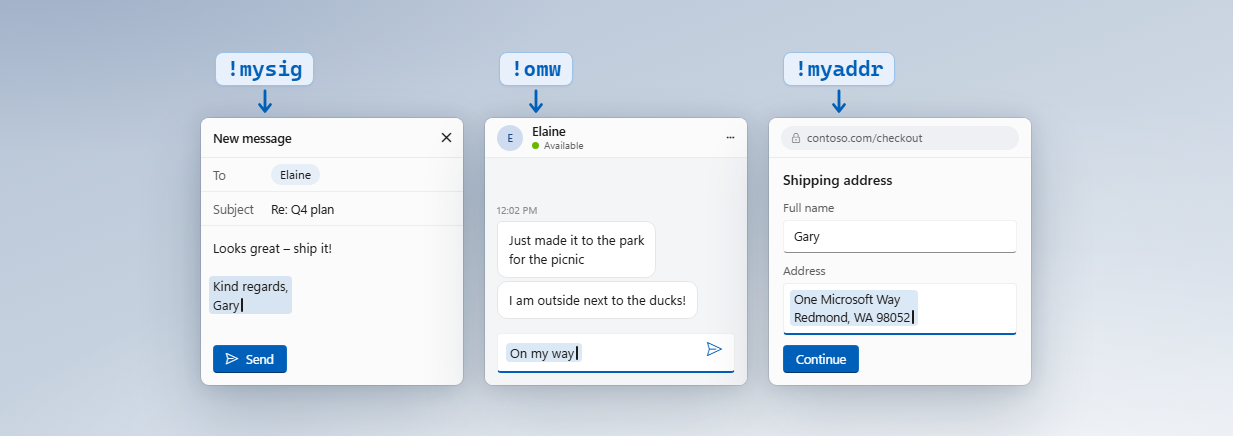
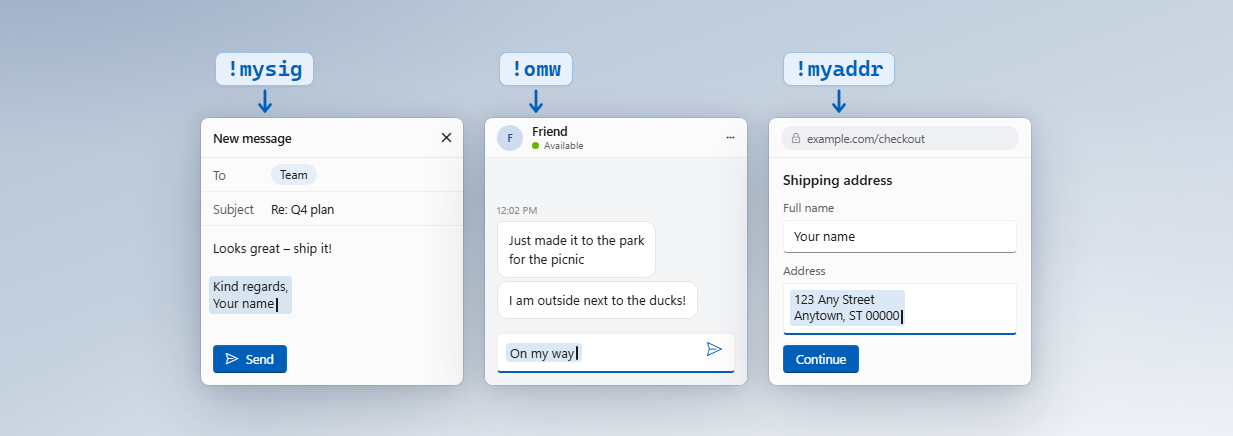
chore(textexpander): use generic sample data in the welcome and Settings images
The welcome image and the Settings page card showed real-sounding names, a Contoso address bar and Microsoft's
street address. They now show "Team", "Friend", "Your name", example.com and 123 Any Street, Anytown, ST 00000,
in the same size and style; only that text changed. The UI tests' sample address, which their screenshots show,
is the same fictional one.

diff --git a/src/modules/textexpander/TextExpander.UITests/TextExpanderTestBase.cs b/src/modules/textexpander/TextExpander.UITests/TextExpanderTestBase.cs
@@ -21,7 +21,7 @@ public abstract class TextExpanderTestBase : UITestBase
     internal const string EngineMessageWindowClass = "PowerToys.TextExpander.MessageWindow.powertoys";
 
     internal static readonly Snippet Greeting = new(";tehi", "Hello from the Text Expander UI test");
-    internal static readonly Snippet Address = new(";teaddr", "One Microsoft Way\nRedmond, WA 98052");
+    internal static readonly Snippet Address = new(";teaddr", "123 Any Street\nAnytown, ST 00000");
     internal static readonly Snippet Letter = new(";tecur", "Dear $|$,\nSent {{isodate}}");
     internal static readonly Snippet Ticket = new(";teask", "Ticket {{prompt:Ticket number}} is resolved.");
     internal static readonly Snippet Note = new(";tenote", "Note: {{prompt:Your note}}.");

diff --git a/src/modules/textexpander/TextExpander.UITests/TextExpanderEditorTests.cs b/src/modules/textexpander/TextExpander.UITests/TextExpanderEditorTests.cs
@@ -418,7 +418,7 @@ public sealed class TextExpanderEditorTests : TextExpanderTestBase
         Assert.IsTrue(editor.WaitForRow(Address.Trigger, present: true), $"The matching snippet isn't listed. Rows: {editor.DescribeRows()}.");
         Assert.IsTrue(editor.WaitForRow(Greeting.Trigger, present: false), $"A snippet that doesn't match is still listed. Rows: {editor.DescribeRows()}.");
 
-        editor.Search("Redmond");
+        editor.Search("Anytown");
         editor.WaitForFilteredCount(1, DefaultSnippets.Count);
         Assert.IsTrue(editor.WaitForRow(Address.Trigger, present: true), $"Search didn't match the replacement text. Rows: {editor.DescribeRows()}.");
 
